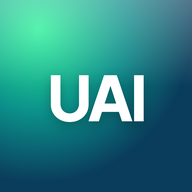
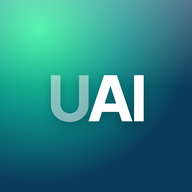
Ícone UAI: U mais claro, AI em destaque (#2)
Claude-Session: https://claude.ai/code/session_01P7sN9fsUqcxLoptZ78KP3w

Changed region(s): [[0.25, 0.375, 0.4688, 0.6562]]

diff --git a/index.html b/index.html
@@ -114,7 +114,7 @@ details ul{padding-left:1.1rem;margin:.5rem 0}
 <div class="wrap">
   <header>
     <div><div class="kicker">UAI</div><h1>Reembolso</h1></div>
-    <div class="logo" aria-hidden="true">UAI</div>
+    <div class="logo" aria-hidden="true"><span><span style="opacity:.5">U</span>AI</span></div>
   </header>
 
   <section class="hero glass" aria-live="polite">

diff --git a/sw.js b/sw.js
@@ -1,5 +1,5 @@
 // Reembolso UAI — offline support. Bump VERSION on every release.
-const VERSION = "v3-aurora-2026-11-27";
+const VERSION = "v4-aurora-2026-11-27";
 const CORE = [
   "./", "index.html", "manifest.webmanifest",
   "icons/icon-192.png", "icons/icon-512.png", "icons/apple-touch-icon.png",
